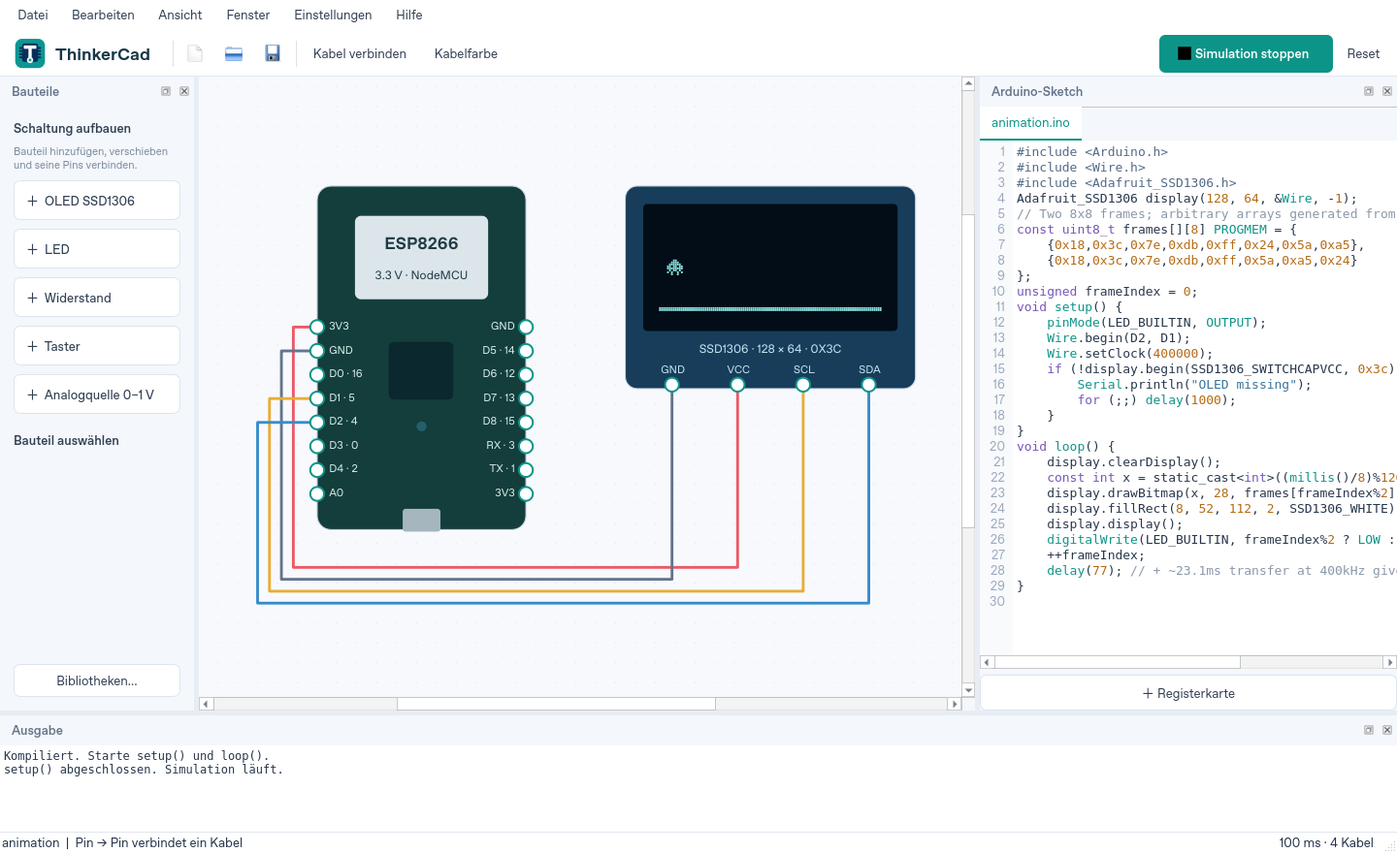
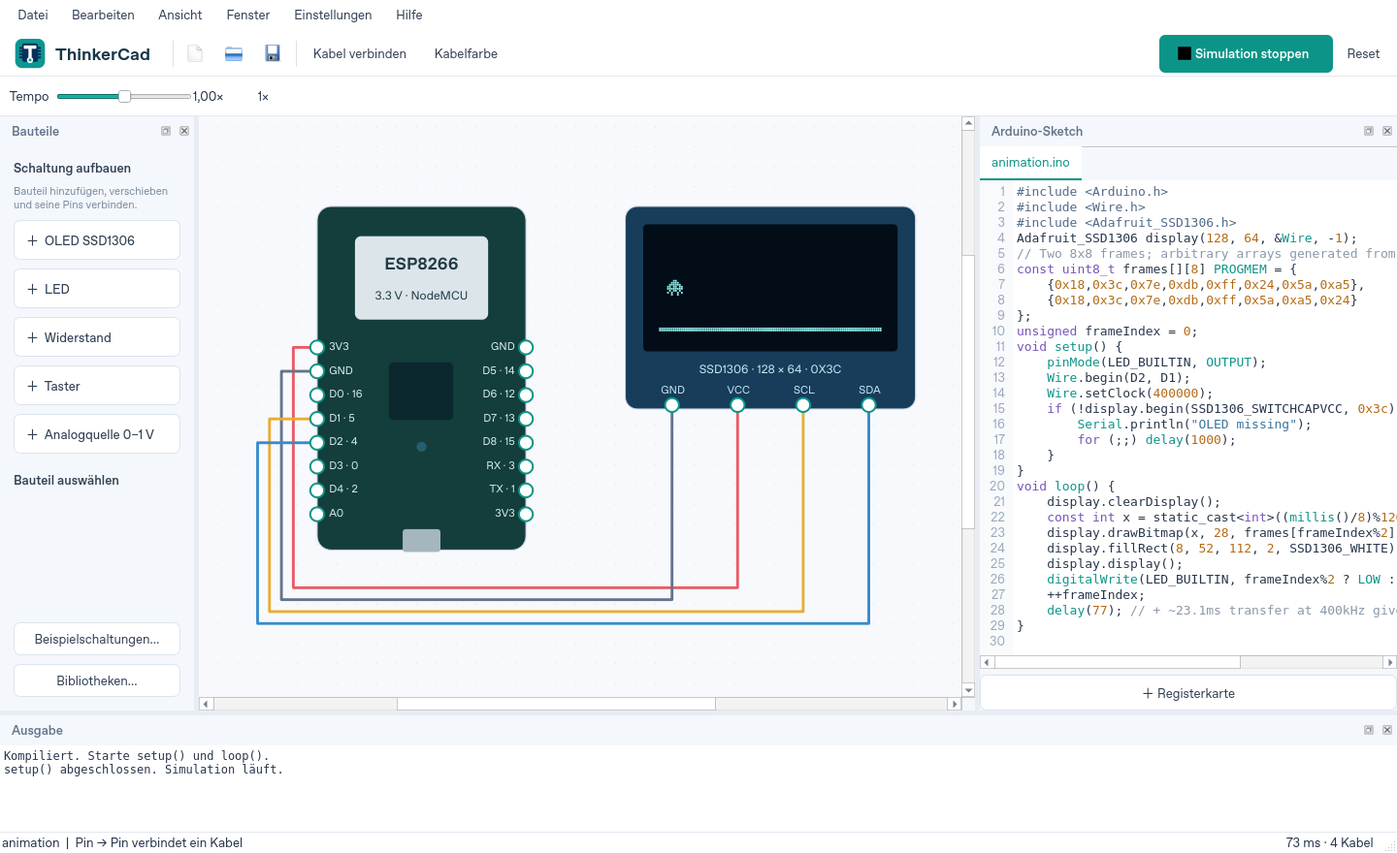
Release 0.3.0: live simulation speed, flash adapters and circuit examples

diff --git a/src/gui/mainwindow.cpp b/src/gui/mainwindow.cpp
@@ -1,5 +1,6 @@
 #include "mainwindow.hpp"
 #include "codeeditor.hpp"
+#include "examples.hpp"
 #include <QAction>
 #include <QApplication>
 #include <QCheckBox>
@@ -27,6 +28,7 @@
 #include <QScreen>
 #include <QSettings>
 #include <QSignalBlocker>
+#include <QSlider>
 #include <QStatusBar>
 #include <QStyle>
 #include <QTabWidget>
@@ -57,7 +59,7 @@ MainWindow::MainWindow(bool smokeTest):interpreter_(this),updater_(this),smokeTe
     auto* save=action(file,"Projekt speichern",QKeySequence::Save,[this]{saveProject();});save->setIcon(style()->standardIcon(QStyle::SP_DialogSaveButton));bar->addAction(save);
     action(file,"Projekt speichern unter…",QKeySequence::SaveAs,[this]{const auto old=projectFile_;projectFile_.clear();if(!saveProject())projectFile_=old;});
     action(file,"Arduino-Sketch exportieren…",{},[this]{exportSketch();});file->addSeparator();
-    action(file,"Beispielschaltung laden",{},[this]{if(maybeSave())loadDemo();});
+    action(file,"Beispielschaltungen…",{},[this]{examplesDialog();});
     action(file,"Beenden",QKeySequence::Quit,[this]{close();});
     auto* edit=menuBar()->addMenu("Bearbeiten");undo_=canvas_->history()->createUndoAction(canvas_,"Rückgängig");redo_=canvas_->history()->createRedoAction(canvas_,"Wiederholen");undo_->setShortcut(QKeySequence::Undo);redo_->setShortcut(QKeySequence::Redo);undo_->setShortcutContext(Qt::WidgetWithChildrenShortcut);redo_->setShortcutContext(Qt::WidgetWithChildrenShortcut);canvas_->addAction(undo_);canvas_->addAction(redo_);edit->addAction(undo_);edit->addAction(redo_);
     action(edit,"Ausgewählte Bauteile / Kabel löschen",{},[this]{canvas_->removeSelected();});
@@ -66,6 +68,11 @@ MainWindow::MainWindow(bool smokeTest):interpreter_(this),updater_(this),smokeTe
     auto* space=new QWidget;space->setSizePolicy(QSizePolicy::Expanding,QSizePolicy::Preferred);bar->addWidget(space);
     run_=bar->addAction(style()->standardIcon(QStyle::SP_MediaPlay),"Simulation starten");run_->setShortcut(Qt::Key_F5);run_->setObjectName("runSimulation");connect(run_,&QAction::triggered,this,[this]{if(interpreter_.active())interpreter_.stop();else startSimulation();});if(auto* button=qobject_cast<QToolButton*>(bar->widgetForAction(run_))){button->setObjectName("runButton");button->setToolButtonStyle(Qt::ToolButtonTextBesideIcon);}
     auto* reset=bar->addAction("Reset");connect(reset,&QAction::triggered,this,[this]{interpreter_.stop();simulator_.reset();board_.reset();for(auto& [id,display]:displays_){(void)id;display.reset();}updateCircuit();});
+    addToolBarBreak();auto* speedBar=addToolBar("Simulationstempo");speedBar->setObjectName("speedBar");speedBar->setMovable(false);
+    speedBar->addWidget(new QLabel("  Tempo  "));auto* speed=new QSlider(Qt::Horizontal);speed->setObjectName("simulationSpeed");speed->setRange(0,80);speed->setValue(40);speed->setFixedWidth(140);speed->setAccessibleName("Simulationsgeschwindigkeit");speed->setToolTip("0,1× bis 10× · während der Simulation einstellbar");speedBar->addWidget(speed);
+    auto* speedLabel=new QLabel("1,00×");speedLabel->setObjectName("simulationSpeedLabel");speedLabel->setMinimumWidth(52);speedBar->addWidget(speedLabel);auto* normalSpeed=speedBar->addAction("1×");normalSpeed->setToolTip("Normales Simulationstempo wiederherstellen");connect(normalSpeed,&QAction::triggered,speed,[speed]{speed->setValue(40);});
+    connect(speed,&QSlider::valueChanged,this,[this,speedLabel](int value){interpreter_.setSimulationSpeed(std::pow(10.0,(value-40)/40.0));speedLabel->setText(QString::number(interpreter_.simulationSpeed(),'f',2).replace('.',',')+"×");});
+
     auto* partsDock=new QDockWidget("Bauteile",this);partsDock->setObjectName("partsDock");auto* panel=new QWidget;auto* panelLayout=new QVBoxLayout(panel);panelLayout->setContentsMargins(14,14,14,14);panelLayout->setSpacing(9);
     auto* intro=new QLabel("Schaltung aufbauen");intro->setObjectName("sectionTitle");panelLayout->addWidget(intro);auto* hint=new QLabel("Bauteil hinzufügen, verschieben und seine Pins verbinden.");hint->setWordWrap(true);hint->setObjectName("muted");panelLayout->addWidget(hint);
     for(const auto kind:{PartKind::Oled,PartKind::Led,PartKind::Resistor,PartKind::Button,PartKind::AnalogSource}){auto* button=new QPushButton("＋  "+title(kind));button->setObjectName("componentCard");button->setProperty("kind",static_cast<int>(kind));panelLayout->addWidget(button);connect(button,&QPushButton::clicked,this,[this,kind]{canvas_->addPart(kind);});}
@@ -73,7 +80,7 @@ MainWindow::MainWindow(bool smokeTest):interpreter_(this),updater_(this),smokeTe
     propertyValue_=new QDoubleSpinBox;propertyValue_->setObjectName("componentValue");propertyValue_->setMaximum(1e6);propertyValue_->hide();panelLayout->addWidget(propertyValue_);
     propertyAddress_=new QComboBox;propertyAddress_->addItem("I²C-Adresse 0x3C",60);propertyAddress_->addItem("I²C-Adresse 0x3D",61);propertyAddress_->hide();panelLayout->addWidget(propertyAddress_);
     propertyPressed_=new QCheckBox("Taster gedrückt");propertyPressed_->hide();panelLayout->addWidget(propertyPressed_);
-    panelLayout->addStretch();auto* libs=new QPushButton("Bibliotheken…");panelLayout->addWidget(libs);connect(libs,&QPushButton::clicked,this,&MainWindow::libraries);partsDock->setWidget(panel);partsDock->setMinimumWidth(160);addDockWidget(Qt::LeftDockWidgetArea,partsDock);
+    panelLayout->addStretch();auto* examples=new QPushButton("Beispielschaltungen…");panelLayout->addWidget(examples);connect(examples,&QPushButton::clicked,this,&MainWindow::examplesDialog);auto* libs=new QPushButton("Bibliotheken…");panelLayout->addWidget(libs);connect(libs,&QPushButton::clicked,this,&MainWindow::libraries);partsDock->setWidget(panel);partsDock->setMinimumWidth(160);addDockWidget(Qt::LeftDockWidgetArea,partsDock);
     auto* codeDock=new QDockWidget("Arduino-Sketch",this);codeDock->setObjectName("codeDock");auto* codePanel=new QWidget;auto* codeLayout=new QVBoxLayout(codePanel);codeLayout->setContentsMargins(0,0,0,0);codeTabs_=new QTabWidget;codeTabs_->setObjectName("codeTabs");codeTabs_->setDocumentMode(true);codeTabs_->setUsesScrollButtons(true);codeLayout->addWidget(codeTabs_);auto* newTab=new QPushButton("＋ Registerkarte");codeLayout->addWidget(newTab);connect(newTab,&QPushButton::clicked,this,[this]{const auto name=QInputDialog::getText(this,"Neue Registerkarte","Dateiname (.ino, .h oder .cpp)");if(name.isEmpty())return;if(!ProjectIO::validFileName(name)||sketch_.files.contains(name)){appendLog("Dateiname ist ungültig oder bereits vorhanden.");return;}auto p=currentSketch();p.order<<name;p.files[name]="";setSketch(p);codeTabs_->setCurrentIndex(codeTabs_->count()-1);static_cast<CodeEditor*>(codeTabs_->currentWidget())->document()->setModified(true);});codeDock->setWidget(codePanel);codeDock->setMinimumWidth(260);addDockWidget(Qt::RightDockWidgetArea,codeDock);
     auto* consoleDock=new QDockWidget("Ausgabe",this);consoleDock->setObjectName("consoleDock");console_=new QPlainTextEdit;console_->setObjectName("consoleOutput");console_->setReadOnly(true);console_->setMaximumBlockCount(1000);console_->setFont(QFont("Consolas",9));console_->setMinimumHeight(70);consoleDock->setWidget(console_);addDockWidget(Qt::BottomDockWidgetArea,consoleDock);
     auto* view=menuBar()->addMenu("Ansicht");view->addAction(partsDock->toggleViewAction());view->addAction(codeDock->toggleViewAction());view->addAction(consoleDock->toggleViewAction());view->addSeparator();action(view,"Schaltung einpassen",QKeySequence(Qt::CTRL|Qt::Key_0),[this]{canvas_->fitCircuit();});action(view,"Vergrößern",QKeySequence::ZoomIn,[this]{canvas_->zoom(1.2);});action(view,"Verkleinern",QKeySequence::ZoomOut,[this]{canvas_->zoom(1/1.2);});
@@ -101,7 +108,11 @@ bool MainWindow::dirty()const{if(!canvas_->history()->isClean())return true;for(
 void MainWindow::refreshTitle(){const auto name=projectFile_.isEmpty()?sketch_.name:QFileInfo(projectFile_).completeBaseName();setWindowTitle(name+(dirty()?" *":"")+" — ThinkerCad " THINKERCAD_VERSION);projectLabel_->setText(name+(dirty()?" · ungespeichert":"")+"  |  Pin → Pin verbindet ein Kabel");}
 void MainWindow::appendLog(const QString& text){console_->appendPlainText(text);if(smokeTest_)std::cerr<<text.toStdString()<<'\n';}
 void MainWindow::newProject(){interpreter_.stop();circuit_=CircuitDocument{};canvas_->rebuild();canvas_->resetHistory();board_.reset();simulator_.reset();displays_.clear();displayBindings_.clear();projectFile_.clear();setSketch(blink());updateCircuit();canvas_->fitCircuit();}
-void MainWindow::loadDemo(){newProject();const auto oled=circuit_.addPart(PartKind::Oled,390,80);circuit_.connect({"board","3V3"},{oled,"VCC"},"#ec5967");circuit_.connect({"board","GND"},{oled,"GND"},"#64748b");circuit_.connect({"board","GPIO5"},{oled,"SCL"},"#e9ad33");circuit_.connect({"board","GPIO4"},{oled,"SDA"},"#378bcb");auto p=blink();p.name="animation";p.order={"animation.ino"};QFile example(QCoreApplication::applicationDirPath()+"/examples/animation.ino");if(example.open(QIODevice::ReadOnly))p.files={{"animation.ino",QString::fromUtf8(example.readAll())}};else p.files={{"animation.ino",p.files.value("sketch.ino")}};setSketch(p);canvas_->rebuild();canvas_->resetHistory();updateCircuit();canvas_->fitCircuit();}
+void MainWindow::loadDemo(){loadExample("animation");}
+bool MainWindow::loadExample(const QString& id){try{auto example=ExampleCatalog::create(id);newProject();circuit_=std::move(example.circuit);canvas_->rebuild();canvas_->resetHistory();setSketch(example.sketch);updateCircuit();canvas_->fitCircuit();return true;}catch(const std::exception& error){appendLog(QString::fromUtf8(error.what()));return false;}}
+void MainWindow::examplesDialog(){
+    QDialog dialog(this);dialog.setWindowTitle("Beispielschaltungen");dialog.resize(560,420);QVBoxLayout layout(&dialog);QLabel intro("Fertige Schaltung mit passendem Arduino-Sketch öffnen");intro.setWordWrap(true);layout.addWidget(&intro);QListWidget list;list.setObjectName("exampleList");const auto entries=ExampleCatalog::entries();for(const auto& example:entries)list.addItem(example.title);layout.addWidget(&list);QLabel description;description.setWordWrap(true);description.setMinimumHeight(64);layout.addWidget(&description);connect(&list,&QListWidget::currentRowChanged,&description,[entries,&description](int row){description.setText(row>=0&&row<entries.size()?entries.at(row).description:QString{});});list.setCurrentRow(0);QDialogButtonBox buttons(QDialogButtonBox::Open|QDialogButtonBox::Cancel);layout.addWidget(&buttons);connect(&buttons,&QDialogButtonBox::accepted,&dialog,&QDialog::accept);connect(&buttons,&QDialogButtonBox::rejected,&dialog,&QDialog::reject);connect(&list,&QListWidget::itemActivated,&dialog,[&]{dialog.accept();});if(dialog.exec()==QDialog::Accepted&&maybeSave())loadExample(entries.at(list.currentRow()).id);
+}
 bool MainWindow::openPath(const QString& path){try{if(QFileInfo(path).suffix().toLower()=="thinkercad"){auto p=ProjectIO::load(path);interpreter_.stop();circuit_=std::move(p.circuit);canvas_->rebuild();canvas_->resetHistory();board_.reset();simulator_.reset();displays_.clear();displayBindings_.clear();setSketch(p.sketch);projectFile_=path;}else{auto p=SketchProject::openIno(path);interpreter_.stop();setSketch(p);projectFile_.clear();}for(auto* dock:findChildren<QDockWidget*>())if(dock->objectName()=="codeDock")dock->show();updateCircuit();refreshTitle();canvas_->fitCircuit();appendLog("Geöffnet: "+QFileInfo(path).fileName());return true;}catch(const std::exception& e){appendLog(QString::fromUtf8(e.what()));return false;}}
 void MainWindow::openDialog(){if(!maybeSave())return;const auto path=QFileDialog::getOpenFileName(this,"Projekt oder Arduino-Sketch öffnen",{},"ThinkerCad / Arduino (*.thinkercad *.ino);;ThinkerCad (*.thinkercad);;Arduino (*.ino)");if(!path.isEmpty())openPath(path);}
 bool MainWindow::saveProjectTo(const QString& path){try{ProjectIO::save(path,{circuit_,currentSketch()});projectFile_=path;canvas_->history()->setClean();for(int i=0;i<codeTabs_->count();++i)static_cast<CodeEditor*>(codeTabs_->widget(i))->document()->setModified(false);refreshTitle();return true;}catch(const std::exception& e){appendLog(QString::fromUtf8(e.what()));return false;}}

diff --git a/tests/desktop_tests.cpp b/tests/desktop_tests.cpp
@@ -1,5 +1,8 @@
 #include "mainwindow.hpp"
 #include "codeeditor.hpp"
+#include "examples.hpp"
+#include <QSlider>
+#include <QLabel>
 #include <QApplication>
 #include <QAction>
 #include <QDir>
@@ -40,7 +43,10 @@ private slots:
     void wiredButtonChangesLed(){QTemporaryDir dir;const auto path=dir.filePath("button.ino");QVERIFY(write(path,"void setup(){pinMode(D6,INPUT_PULLUP);pinMode(D5,OUTPUT);}\nvoid loop(){digitalWrite(D5,digitalRead(D6)==LOW?HIGH:LOW);delay(40);}\n"));MainWindow window;window.show();QVERIFY(window.openPath(path));std::string led,resistor,button;window.canvas()->mutate("Test circuit",[&](auto& doc){led=doc.addPart(PartKind::Led,430,150);resistor=doc.addPart(PartKind::Resistor,270,150);button=doc.addPart(PartKind::Button,270,300);doc.connect({"board","GPIO14"},{resistor,"1"});doc.connect({resistor,"2"},{led,"A"});doc.connect({led,"K"},{"board","GND"});doc.connect({button,"1"},{"board","GPIO12"});doc.connect({button,"2"},{"board","GND"});});window.startSimulation();auto* output=window.findChild<QPlainTextEdit*>("consoleOutput");QTRY_VERIFY_WITH_TIMEOUT(output->toPlainText().contains("setup() abgeschlossen"),15000);QTRY_VERIFY(window.circuitState().ledCurrent.at(led)<1e-6);window.canvas()->selectPart(button);auto* pressed=window.findChild<QCheckBox*>();QVERIFY(pressed&&pressed->isVisible());QTest::mouseClick(pressed,Qt::LeftButton);QTRY_VERIFY_WITH_TIMEOUT(window.circuitState().ledCurrent.at(led)>0.005,3000);QTest::mouseClick(pressed,Qt::LeftButton);QTRY_VERIFY_WITH_TIMEOUT(window.circuitState().ledCurrent.at(led)<1e-6,3000);stop(window);}
     void closeDuringSimulation(){MainWindow window;window.loadDemo();window.show();window.startSimulation();QTRY_VERIFY_WITH_TIMEOUT(window.circuitState().level({"board","GPIO2"})==Level::High,15000);QElapsedTimer timer;timer.start();QVERIFY(window.close());QVERIFY(!window.simulationActive());QVERIFY(!window.isVisible());QVERIFY(timer.elapsed()<2500);}
     void disconnectedOledFailsBegin(){QTemporaryDir dir;const auto path=dir.filePath("oled.ino");QVERIFY(write(path,"#include <Adafruit_SSD1306.h>\nAdafruit_SSD1306 display(128,64,&Wire,-1);\nvoid setup(){Wire.begin(D2,D1);if(!display.begin(SSD1306_SWITCHCAPVCC,0x3c))Serial.println(\"missing OLED\");}\nvoid loop(){delay(30);}\n"));MainWindow window;window.show();QVERIFY(window.openPath(path));window.startSimulation();auto* console=window.findChild<QPlainTextEdit*>("consoleOutput");QTRY_VERIFY_WITH_TIMEOUT(console->toPlainText().contains("missing OLED"),15000);QVERIFY(console->toPlainText().contains("OLED nicht erreichbar"));stop(window);}
-    void circuitProjectRoundTrip(){QTemporaryDir dir;SavedProject p;p.sketch.name="Wiring";p.sketch.order={"Wiring.ino"};p.sketch.files["Wiring.ino"]="void setup(){} void loop(){delay(20);}";const auto resistor=p.circuit.addPart(PartKind::Resistor,310,170);p.circuit.part(resistor).value=470;p.circuit.connect({"board","GPIO14"},{resistor,"1"},"#ec5967");const auto path=dir.filePath("Wiring.thinkercad");ProjectIO::save(path,p);const auto loaded=ProjectIO::load(path);QCOMPARE(loaded.circuit.parts().size(),p.circuit.parts().size());QCOMPARE(loaded.circuit.part(resistor).x,310.0);QCOMPARE(loaded.circuit.part(resistor).value,470.0);QVERIFY(loaded.circuit.connected({"board","GPIO14"},{resistor,"1"}));QCOMPARE(QString::fromStdString(loaded.circuit.wires().front().color),QString("#ec5967"));QCOMPARE(loaded.sketch.files,p.sketch.files);}
+    void circuitProjectRoundTrip(){QTemporaryDir dir;SavedProject p;p.sketch.name="Wiring";p.sketch.order={"Wiring.ino"};p.sketch.files["Wiring.ino"]="void setup(){} void loop(){delay(20);}";const auto resistor=p.circuit.addPart(PartKind::Resistor,310,170);p.circuit.part(resistor).value=470;p.circuit.part(resistor).color="#22c55e";p.circuit.connect({"board","GPIO14"},{resistor,"1"},"#ec5967");const auto path=dir.filePath("Wiring.thinkercad");ProjectIO::save(path,p);const auto loaded=ProjectIO::load(path);QCOMPARE(loaded.circuit.parts().size(),p.circuit.parts().size());QCOMPARE(loaded.circuit.part(resistor).x,310.0);QCOMPARE(loaded.circuit.part(resistor).value,470.0);QCOMPARE(QString::fromStdString(loaded.circuit.part(resistor).color),QString("#22c55e"));QVERIFY(loaded.circuit.connected({"board","GPIO14"},{resistor,"1"}));QCOMPARE(QString::fromStdString(loaded.circuit.wires().front().color),QString("#ec5967"));QCOMPARE(loaded.sketch.files,p.sketch.files);}
+    void simulationSpeedSlider(){MainWindow window;window.show();QTest::qWait(50);auto* speed=window.findChild<QSlider*>("simulationSpeed");auto* label=window.findChild<QLabel*>("simulationSpeedLabel");QVERIFY(speed&&label);QCOMPARE(speed->value(),40);speed->setFocus();QTest::keyClick(speed,Qt::Key_Home);QCOMPARE(label->text(),QString("0,10×"));QTest::keyClick(speed,Qt::Key_End);QCOMPARE(label->text(),QString("10,00×"));speed->setValue(40);QCOMPARE(label->text(),QString("1,00×"));}
+    void examplesCompileAndSimulate_data(){QTest::addColumn<QString>("id");for(const auto& example:ExampleCatalog::entries())QTest::newRow(example.id.toUtf8().constData())<<example.id;}
+    void examplesCompileAndSimulate(){QFETCH(QString,id);MainWindow window;window.show();QVERIFY(window.loadExample(id));QVERIFY(window.circuitState().errors.empty());QVERIFY(!window.circuit().wires().empty());window.startSimulation();auto* console=window.findChild<QPlainTextEdit*>("consoleOutput");QTRY_VERIFY_WITH_TIMEOUT(console->toPlainText().contains("setup() abgeschlossen"),15000);QVERIFY(window.simulationActive());if(id=="animation"||id=="two_oleds"){QTest::qWait(250);QVERIFY(window.simulationActive());QVERIFY(!console->toPlainText().contains("OLED nicht erreichbar"));}else if(id!="button_led"){QTRY_VERIFY(std::any_of(window.circuitState().ledCurrent.begin(),window.circuitState().ledCurrent.end(),[](const auto& pair){return pair.second>0.001;}));}stop(window);}
     void rejectUnsafeProjectPaths(){QTemporaryDir dir;SavedProject p;p.sketch.order={"sketch.ino"};p.sketch.files["sketch.ino"]="void setup(){} void loop(){}";const auto path=dir.filePath("safe.thinkercad");ProjectIO::save(path,p);QFile file(path);QVERIFY(file.open(QIODevice::ReadOnly));auto json=QJsonDocument::fromJson(file.readAll()).object();file.close();auto files=json["files"].toArray();files.append(QJsonObject{{"name","../escaped.cpp"},{"text",""}});json["files"]=files;QVERIFY(write(path,QString::fromUtf8(QJsonDocument(json).toJson())));QVERIFY_EXCEPTION_THROWN(ProjectIO::load(path),std::runtime_error);QVERIFY(!QFileInfo::exists(dir.filePath("../escaped.cpp")));}
 };
 QTEST_MAIN(DesktopTests)

diff --git a/src/gui/main.cpp b/src/gui/main.cpp
@@ -20,7 +20,7 @@ int main(int argc,char** argv){
     app.setStyle(QStyleFactory::create("Fusion"));
 #endif
     QPalette palette;palette.setColor(QPalette::Window,QColor("#f4f7fb"));palette.setColor(QPalette::WindowText,QColor("#27364b"));palette.setColor(QPalette::Base,Qt::white);palette.setColor(QPalette::Text,QColor("#27364b"));palette.setColor(QPalette::Button,QColor("#ffffff"));palette.setColor(QPalette::ButtonText,QColor("#27364b"));palette.setColor(QPalette::Highlight,QColor("#0d9488"));palette.setColor(QPalette::HighlightedText,Qt::white);app.setPalette(palette);
-    app.setStyleSheet("QMainWindow {background:#f4f7fb;} QMenuBar {background:#ffffff;padding:3px;color:#334155;} QMenuBar::item {padding:5px 9px;} QToolBar#commandBar {background:white;spacing:5px;padding:9px;border-bottom:1px solid #e2e8f0;} QToolButton {padding:7px 9px;border-radius:6px;color:#334155;} QToolButton:hover {background:#edf4f5;} QToolButton:checked {background:#e0f4f1;color:#0d9488;} QToolButton#runButton {background:#0d9488;color:white;padding:9px 15px;font-weight:600;} QToolButton#runButton:hover {background:#0f766e;} QLabel#brandName {font-size:18px;font-weight:700;color:#173747;} QLabel#sectionTitle {font-weight:600;color:#334155;} QLabel#muted {color:#7b8ba0;font-size:11px;} QDockWidget {color:#64748b;font-weight:600;} QDockWidget::title {background:#f4f7fb;padding:8px;} QMainWindow::separator {width:5px;height:5px;background:#e8edf4;} QPushButton {background:white;border:1px solid #dce4ee;border-radius:7px;padding:8px 10px;color:#334155;} QPushButton:hover {background:#edf8f6;border-color:#b3d8d2;} QPushButton#componentCard {text-align:left;padding:10px 12px;font-weight:500;} QPlainTextEdit {background:white;border:0;color:#27364b;selection-background-color:#cdebe7;selection-color:#173747;} QTabWidget::pane {border:0;background:white;} QTabBar::tab {background:#f1f5f9;padding:9px 12px;color:#718096;border-bottom:2px solid transparent;} QTabBar::tab:selected {background:white;color:#0d9488;border-bottom:2px solid #0d9488;} QDoubleSpinBox,QComboBox {background:white;border:1px solid #dce4ee;border-radius:5px;padding:7px;} QStatusBar {background:#ffffff;border-top:1px solid #e2e8f0;color:#748398;} QStatusBar::item {border:0;} ");
+    app.setStyleSheet("QMainWindow {background:#f4f7fb;} QMenuBar {background:#ffffff;padding:3px;color:#334155;} QMenuBar::item {padding:5px 9px;} QToolBar#speedBar {background:white;padding:4px;border-bottom:1px solid #e2e8f0;} QToolBar#commandBar {background:white;spacing:5px;padding:9px;border-bottom:1px solid #e2e8f0;} QToolButton {padding:7px 9px;border-radius:6px;color:#334155;} QToolButton:hover {background:#edf4f5;} QToolButton:checked {background:#e0f4f1;color:#0d9488;} QToolButton#runButton {background:#0d9488;color:white;padding:9px 15px;font-weight:600;} QToolButton#runButton:hover {background:#0f766e;} QLabel#brandName {font-size:18px;font-weight:700;color:#173747;} QLabel#sectionTitle {font-weight:600;color:#334155;} QLabel#muted {color:#7b8ba0;font-size:11px;} QDockWidget {color:#64748b;font-weight:600;} QDockWidget::title {background:#f4f7fb;padding:8px;} QMainWindow::separator {width:5px;height:5px;background:#e8edf4;} QPushButton {background:white;border:1px solid #dce4ee;border-radius:7px;padding:8px 10px;color:#334155;} QPushButton:hover {background:#edf8f6;border-color:#b3d8d2;} QPushButton#componentCard {text-align:left;padding:10px 12px;font-weight:500;} QPlainTextEdit {background:white;border:0;color:#27364b;selection-background-color:#cdebe7;selection-color:#173747;} QTabWidget::pane {border:0;background:white;} QTabBar::tab {background:#f1f5f9;padding:9px 12px;color:#718096;border-bottom:2px solid transparent;} QTabBar::tab:selected {background:white;color:#0d9488;border-bottom:2px solid #0d9488;} QDoubleSpinBox,QComboBox {background:white;border:1px solid #dce4ee;border-radius:5px;padding:7px;} QStatusBar {background:#ffffff;border-top:1px solid #e2e8f0;color:#748398;} QStatusBar::item {border:0;} ");
     MainWindow window(app.arguments().contains("--smoke-test"));window.show();
     if(!app.arguments().contains("--smoke-test"))for(const auto& argument:app.arguments().mid(1))if(QFileInfo(argument).isFile())QTimer::singleShot(0,&window,[&window,argument]{window.openPath(argument);});
     const int result=app.exec();

diff --git a/src/gui/projectio.cpp b/src/gui/projectio.cpp
@@ -59,7 +59,7 @@ QString SketchProject::combinedSource()const{QString combined="#include <Arduino
 QMap<QString,QString> SketchProject::auxiliaryFiles()const{auto aux=files;for(auto it=aux.begin();it!=aux.end();)if(it.key().endsWith(".ino",Qt::CaseInsensitive))it=aux.erase(it);else++it;return aux;}
 void ProjectIO::save(const QString& path,const SavedProject& p){
     p.circuit.validate();QJsonArray parts,wires,files;
-    for(const auto& part:p.circuit.parts())parts.append(QJsonObject{{"id",QString::fromStdString(part.id)},{"kind",static_cast<int>(part.kind)},{"x",part.x},{"y",part.y},{"value",part.value}});
+    for(const auto& part:p.circuit.parts())parts.append(QJsonObject{{"id",QString::fromStdString(part.id)},{"kind",static_cast<int>(part.kind)},{"x",part.x},{"y",part.y},{"value",part.value},{"color",QString::fromStdString(part.color)}});
     for(const auto& wire:p.circuit.wires())wires.append(QJsonObject{{"a",endpoint(wire.a)},{"b",endpoint(wire.b)},{"color",QString::fromStdString(wire.color)}});
     for(const auto& name:p.sketch.order){if(!validFileName(name))throw std::runtime_error("Invalid project file name");files.append(QJsonObject{{"name",name},{"text",p.sketch.files.value(name)}});}
     const auto data=QJsonDocument(QJsonObject{{"format","ThinkerCad"},{"version",1},{"name",p.sketch.name},{"parts",parts},{"wires",wires},{"files",files}}).toJson();
@@ -68,7 +68,7 @@ void ProjectIO::save(const QString& path,const SavedProject& p){
 SavedProject ProjectIO::load(const QString& path){
     QFile file(path);if(!file.open(QIODevice::ReadOnly)||file.size()>3*1024*1024)throw std::runtime_error("Projektdatei ist nicht lesbar oder zu groß.");QJsonParseError error;const auto json=QJsonDocument::fromJson(file.readAll(),&error);const auto o=json.object();if(error.error!=QJsonParseError::NoError||o["format"].toString()!="ThinkerCad"||o["version"].toInt()!=1||!o["parts"].isArray()||!o["wires"].isArray()||!o["files"].isArray())throw std::runtime_error("Ungültiges ThinkerCad-Projektformat.");
     SavedProject p;p.sketch.name=o["name"].toString("sketch");bool board=false;
-    for(const auto& entry:o["parts"].toArray()){auto v=entry.toObject();if(!v["x"].isDouble()||!v["y"].isDouble()||!v["value"].isDouble()||!v["kind"].isDouble())throw std::runtime_error("Invalid component properties");thinkercad::CircuitPart part{v["id"].toString().toStdString(),static_cast<thinkercad::PartKind>(v["kind"].toInt(-1)),v["x"].toDouble(),v["y"].toDouble(),v["value"].toDouble(),false};if(part.id=="board"){if(board||part.kind!=thinkercad::PartKind::Esp8266)throw std::runtime_error("Invalid primary board");p.circuit.part("board")=part;board=true;}else p.circuit.insertPart(part);}
+    for(const auto& entry:o["parts"].toArray()){auto v=entry.toObject();if(!v["x"].isDouble()||!v["y"].isDouble()||!v["value"].isDouble()||!v["kind"].isDouble())throw std::runtime_error("Invalid component properties");thinkercad::CircuitPart part{v["id"].toString().toStdString(),static_cast<thinkercad::PartKind>(v["kind"].toInt(-1)),v["x"].toDouble(),v["y"].toDouble(),v["value"].toDouble(),false,v["color"].toString("#fb586b").toStdString()};if(part.id=="board"){if(board||part.kind!=thinkercad::PartKind::Esp8266)throw std::runtime_error("Invalid primary board");p.circuit.part("board")=part;board=true;}else p.circuit.insertPart(part);}
     if(!board)throw std::runtime_error("ESP8266 fehlt im Projekt.");
     for(const auto& entry:o["wires"].toArray()){auto v=entry.toObject();p.circuit.connect(endpoint(v["a"].toObject()),endpoint(v["b"].toObject()),v["color"].toString("#0d9488").toStdString());}
     for(const auto& entry:o["files"].toArray()){auto v=entry.toObject();const auto name=v["name"].toString();if(!validFileName(name)||p.sketch.files.contains(name)||p.sketch.files.size()>=100||!v["text"].isString())throw std::runtime_error("Invalid sketch files");p.sketch.order<<name;p.sketch.files[name]=v["text"].toString();}

diff --git a/src/gui/examples.cpp b/src/gui/examples.cpp
@@ -1,0 +1,36 @@
+#include "examples.hpp"
+#include <QCoreApplication>
+#include <QFile>
+#include <stdexcept>
+#include <algorithm>
+using namespace thinkercad;
+QList<CircuitExample> ExampleCatalog::entries(){return {
+    {"animation","OLED-Animation","ESP8266 und SSD1306: zwei Bitmap-Frames aus PROGMEM mit realistischer I²C-Transferzeit."},
+    {"led_blink","LED blinken lassen","Externe LED an D5 mit 220-Ω-Vorwiderstand. Mit dem Temporegler die Blinkgeschwindigkeit vergleichen."},
+    {"button_led","Taster schaltet LED","Taster an D6 gegen GND, interner Pullup, LED an D5. Taster per Doppelklick oder Auswahl-Checkbox drücken."},
+    {"traffic_light","Ampelschaltung","Drei LEDs an D5/D6/D7 mit eigenen Vorwiderständen: Rot, Rot/Gelb, Grün, Gelb."},
+    {"led_chaser","Lauflicht","Vier LEDs an D1/D2/D5/D6 mit jeweils 220 Ω werden der Reihe nach eingeschaltet."},
+    {"analog_threshold","Analoger Schwellwert","0–1-V-Quelle an A0. Ab ADC-Wert 512 leuchtet die LED. Simulation stoppen, Quelle auswählen und Spannung verändern."},
+    {"two_oleds","Zwei OLEDs am I²C-Bus","Zwei Displays teilen D2/SDA und D1/SCL. Adressen 0x3C und 0x3D; Flash-Bitmaps bewegen sich gegenläufig."}
+};}
+SavedProject ExampleCatalog::create(const QString& id){
+    const auto entries=ExampleCatalog::entries();if(std::none_of(entries.begin(),entries.end(),[&](const auto& entry){return entry.id==id;}))throw std::invalid_argument("Unbekanntes Beispiel.");
+    QFile file(QCoreApplication::applicationDirPath()+"/examples/"+id+".ino");if(!file.open(QIODevice::ReadOnly))throw std::runtime_error("Beispieldatei fehlt. Installation überprüfen.");
+    SavedProject result;auto& doc=result.circuit;result.sketch.name=id;result.sketch.order={id+".ino"};result.sketch.files[id+".ino"]=QString::fromUtf8(file.readAll());
+    auto led=[&](const std::string& pin,double y,const std::string& color){
+        const auto resistor=doc.addPart(PartKind::Resistor,400,y),light=doc.addPart(PartKind::Led,650,y);doc.part(light).color=color;
+        doc.connect({"board",pin},{resistor,"1"},color);doc.connect({resistor,"2"},{light,"A"},color);doc.connect({light,"K"},{"board","GND"},"#64748b");
+    };
+    auto oled=[&](double x,double y,int address){const auto display=doc.addPart(PartKind::Oled,x,y);doc.part(display).value=address;
+        doc.connect({"board","3V3"},{display,"VCC"},"#ec5967");doc.connect({"board","GND"},{display,"GND"},"#64748b");doc.connect({"board","GPIO5"},{display,"SCL"},"#e9ad33");doc.connect({"board","GPIO4"},{display,"SDA"},"#378bcb");};
+    if(id=="animation")oled(390,80,60);
+    else if(id=="two_oleds"){oled(430,0,60);oled(800,0,61);}
+    else if(id=="traffic_light"){led("GPIO14",0,"#fb586b");led("GPIO12",140,"#e9ad33");led("GPIO13",280,"#22c55e");}
+    else if(id=="led_chaser"){led("GPIO5",0,"#fb586b");led("GPIO4",140,"#e9ad33");led("GPIO14",280,"#22c55e");led("GPIO12",420,"#378bcb");}
+    else {
+        led("GPIO14",80,"#fb586b");
+        if(id=="button_led"){const auto button=doc.addPart(PartKind::Button,430,270);doc.connect({"board","GPIO12"},{button,"1"},"#378bcb");doc.connect({button,"2"},{"board","GND"},"#64748b");}
+        if(id=="analog_threshold"){const auto source=doc.addPart(PartKind::AnalogSource,430,270);doc.part(source).value=0.75;doc.connect({source,"OUT"},{"board","A0"},"#378bcb");doc.connect({source,"GND"},{"board","GND"},"#64748b");}
+    }
+    doc.validate();return result;
+}

diff --git a/src/gui/circuitcanvas.cpp b/src/gui/circuitcanvas.cpp
@@ -73,7 +73,7 @@ public:
             p->setPen(QColor("#c3e6ef"));p->setFont(QFont("Segoe UI",9));p->drawText(QRectF(12,152,268,24),Qt::AlignCenter,QString("SSD1306 · 128 × 64 · 0x%1").arg(static_cast<int>(part.value),2,16,QChar('0')).toUpper());const QStringList pins{"GND","VCC","SCL","SDA"};p->setFont(QFont("Segoe UI",8));for(int i=0;i<4;++i)p->drawText(QRectF(27+i*66,176,42,18),Qt::AlignCenter,pins[i]);
         }else{
             p->drawRoundedRect(0,0,150,104,12,12);p->setPen(QColor("#334155"));p->setFont(QFont("Segoe UI",10,QFont::DemiBold));p->drawText(QRectF(8,8,134,22),Qt::AlignCenter,partName(kind));
-            if(kind==PartKind::Led){const auto current=state.ledCurrent.contains(id)?state.ledCurrent.at(id):0;p->setPen(Qt::NoPen);p->setBrush(current>1e-5?QColor("#fb586b"):QColor("#b6bfc9"));if(current>1e-5){p->setBrush(QColor(251,88,107,35));p->drawEllipse(QPointF(75,58),27,27);p->setBrush(QColor("#fb586b"));}p->drawEllipse(QPointF(75,58),17,17);p->setPen(QColor("#64748b"));p->setFont(QFont("Segoe UI",8));p->drawText(QRectF(8,81,134,18),Qt::AlignCenter,QString("%1 mA · A → K").arg(current*1000,0,'f',1));}
+            if(kind==PartKind::Led){const auto current=state.ledCurrent.contains(id)?state.ledCurrent.at(id):0;p->setPen(Qt::NoPen);p->setBrush(current>1e-5?QColor(QString::fromStdString(part.color)):QColor("#b6bfc9"));if(current>1e-5){auto glow=QColor(QString::fromStdString(part.color));glow.setAlpha(35);p->setBrush(glow);p->drawEllipse(QPointF(75,58),27,27);p->setBrush(QColor(QString::fromStdString(part.color)));}p->drawEllipse(QPointF(75,58),17,17);p->setPen(QColor("#64748b"));p->setFont(QFont("Segoe UI",8));p->drawText(QRectF(8,81,134,18),Qt::AlignCenter,QString("%1 mA · A → K").arg(current*1000,0,'f',1));}
             if(kind==PartKind::Resistor){p->setBrush(QColor("#e7c99b"));p->setPen(Qt::NoPen);p->drawRoundedRect(30,45,90,25,5,5);p->setBrush(QColor("#926a40"));for(int x:{48,61,83,102})p->drawRect(x,45,5,25);p->setPen(QColor("#64748b"));p->setFont(QFont("Segoe UI",8));p->drawText(QRectF(8,81,134,18),Qt::AlignCenter,QString("%1 Ω").arg(part.value));}
             if(kind==PartKind::Button){p->setBrush(part.pressed?QColor("#0d9488"):QColor("#e2e8f0"));p->drawRoundedRect(50,39,50,34,8,8);p->setPen(QColor("#64748b"));p->setFont(QFont("Segoe UI",8));p->drawText(QRectF(8,81,134,18),Qt::AlignCenter,part.pressed?"Gedrückt":"Doppelklick: drücken");}
             if(kind==PartKind::AnalogSource){p->setPen(QColor("#0d9488"));p->setFont(QFont("Segoe UI",17,QFont::DemiBold));p->drawText(QRectF(15,36,120,38),Qt::AlignCenter,QString("%1 V").arg(part.value,0,'f',2));p->setPen(QColor("#64748b"));p->setFont(QFont("Segoe UI",8));p->drawText(QRectF(8,81,134,18),Qt::AlignCenter,"OUT                   GND");}

diff --git a/src/gui/codeinterpreter.cpp b/src/gui/codeinterpreter.cpp
@@ -4,6 +4,8 @@
 #include <QFile>
 #include <QFileInfo>
 #include <QProcessEnvironment>
+#include <algorithm>
+#include <cmath>
 CodeInterpreter::CodeInterpreter(QObject* parent) : QObject(parent) {
     watchdog_.setSingleShot(true);
     connect(&watchdog_, &QTimer::timeout, this, [this] { emit log("Ausführung abgebrochen: Zeitlimit / fehlende Rückmeldung."); stop(); });
@@ -43,7 +45,7 @@ void CodeInterpreter::start(const QString& sketch,const QString& compiler,const 
     QFile file(temp_->filePath("sketch.ino"));
     if (!file.open(QIODevice::WriteOnly) || file.write(sketch.toUtf8()) < 0) {emit log("Sketch konnte nicht gespeichert werden."); return;} file.close();
     QString source=QDir::fromNativeSeparators(file.fileName());
-    QStringList args{"-std=c++20","-O0","-g","-pthread","-I"+sdk,"-DTHINKERCAD_SKETCH=\""+source+"\"",sdk+"/runner.cpp"};
+    QStringList args{"-std=c++20","-DTHINKERCAD_SIMULATION=1","-O0","-g","-pthread","-I"+sdk,"-DTHINKERCAD_SKETCH=\""+source+"\"",sdk+"/runner.cpp"};
     args << "-I"+temp_->path() << "-I"+temp_->filePath("src") << "-I"+temp_->filePath("include");
     int sources=0;
     for(auto it=projectFiles.begin();it!=projectFiles.end();++it) {
@@ -92,6 +94,9 @@ void CodeInterpreter::start(const QString& sketch,const QString& compiler,const 
     worker_.setProcessEnvironment(environment);
     compiler_.start(compiler,args);
 }
+void CodeInterpreter::setSimulationSpeed(double multiplier) {
+    if(std::isfinite(multiplier))speedPermille_=static_cast<int>(std::lround(std::clamp(multiplier,0.1,10.0)*1000));
+}
 void CodeInterpreter::answer(int value) {worker_.write(QByteArray::number(value)+'\n');}
 void CodeInterpreter::readProtocol() {
     if(!active_)return;
@@ -103,6 +108,6 @@ void CodeInterpreter::readProtocol() {
         const auto newline=pending_.indexOf('\n'); if(newline<0) break;
         if (++linesThisSecond_>5000 || newline>4096) {emit log("Sketch-Protokoll überlastet. delay() oder yield() verwenden.");stop();return;}
         auto line=pending_.left(newline).trimmed(); pending_.remove(0,newline+1);
-        emit protocol(line); if(!active_) break;
+        if(line=="SPEED")answer(speedPermille_);else emit protocol(line); if(!active_) break;
     }
 }

diff --git a/tests/interpreter_tests.cpp b/tests/interpreter_tests.cpp
@@ -8,7 +8,7 @@ int main(int argc,char** argv) {
     QCoreApplication app(argc,argv);QTemporaryDir library;
     const auto root=library.filePath("portable library/src");QDir().mkpath(root);
     auto write=[](const QString& path,const QByteArray& data){QFile f(path);return f.open(QIODevice::WriteOnly) && f.write(data)==data.size();};
-    if(!write(root+"/Counter.h","#pragma once\nint doubled(int value);\n") || !write(root+"/Counter.cpp","#include \"Counter.h\"\nint doubled(int v){return v*2;}\n"))return 1;
+    if(!write(root+"/Counter.h","#pragma once\nint doubled(int value);\n") || !write(root+"/Counter.cpp","#include \"Counter.h\"\n#ifndef THINKERCAD_SIMULATION\n#error Simulation define missing in library\n#endif\nint doubled(int v){return v*2;}\n"))return 1;
     CodeInterpreter runner;bool wrote=false,read=false,adc=false,done=false;
     QObject::connect(&runner,&CodeInterpreter::log,&app,[](const QString& line){std::cerr<<line.toStdString()<<'\n';});
     QObject::connect(&runner,&CodeInterpreter::protocol,&app,[&](const QByteArray& line){
@@ -23,7 +23,7 @@ int main(int argc,char** argv) {
     QObject::connect(&runner,&CodeInterpreter::activeChanged,&app,[&](bool active){if(!active&&!done){done=true;app.exit(1);}});
     QTimer::singleShot(20000,&app,[&]{if(!done){done=true;runner.stop();app.exit(1);}});
     QTimer::singleShot(0,&app,[&]{runner.start(
-        "#include <Arduino.h>\n#include <Counter.h>\nvoid setup(){pinMode(D5,OUTPUT);pinMode(D6,INPUT_PULLUP);digitalWrite(D5,doubled(21)==42?HIGH:LOW);}\n"
+        "#include <Arduino.h>\n#include <Counter.h>\n#include <avr/pgmspace.h>\n#ifndef THINKERCAD_SIMULATION\n#include <HardwareOnlyDependency.h>\n#endif\nconst uint8_t bitmap[] PROGMEM={42};\nvoid setup(){pinMode(D5,OUTPUT);pinMode(D6,INPUT_PULLUP);digitalWrite(D5,doubled(21)==pgm_read_byte(bitmap)?HIGH:LOW);}\n"
         "void loop(){if(digitalRead(D6)!=HIGH || analogRead(A0)!=512) std::abort();delay(10);}\n",
         "g++",QCoreApplication::applicationDirPath()+"/sdk",{library.filePath("portable library")});});
     return app.exec();

diff --git a/sdk/Arduino.h b/sdk/Arduino.h
@@ -9,8 +9,10 @@
 #include <stdexcept>
 #include <string>
 #include <thread>
-#define PROGMEM
-#define pgm_read_byte(p) (*reinterpret_cast<const unsigned char*>(p))
+#include "pgmspace.h"
+#ifndef F
+#define F(text) PSTR(text)
+#endif
 using byte = unsigned char;
 constexpr int LOW = 0, HIGH = 1, INPUT = 0, OUTPUT = 1, INPUT_PULLUP = 2;
 constexpr int D0=16, D1=5, D2=4, D3=0, D4=2, D5=14, D6=12, D7=13, D8=15, A0=17, LED_BUILTIN=2;
@@ -21,18 +23,21 @@ inline std::array<int,17> modes{};
 inline void validatePin(int pin) {
     if (pin < 0 || pin > 16 || (pin >= 6 && pin <= 11)) throw std::invalid_argument("Unavailable ESP8266 GPIO");
 }
+inline int request(const std::string& line);
 inline void advance(std::uint64_t us) {
     if (us > std::numeric_limits<std::uint64_t>::max() - clockUs) throw std::overflow_error("Clock overflow");
     do {
-        const auto step = std::min<std::uint64_t>(us, 50000);
-        std::this_thread::sleep_for(std::chrono::microseconds(step));
+        const int speed = request("SPEED"); // Speed multiplier in thousandths; refreshed while running.
+        if (speed < 100 || speed > 10000) throw std::runtime_error("Invalid simulation speed");
+        const auto step = std::min<std::uint64_t>(us, 50ull * speed);
+        std::this_thread::sleep_for(std::chrono::microseconds(step * 1000 / speed));
         clockUs += step; us -= step;
         std::cout << "TIME " << clockUs << std::endl;
     } while (us);
 }
 inline int request(const std::string& line) {
     std::cout << line << std::endl;
-    if(standalone){if(line.starts_with("OLED_BEGIN "))return 1;return 0;}
+    if(standalone){if(line=="SPEED")return 1000;if(line.starts_with("OLED_BEGIN "))return 1;return 0;}
     int answer = 0;
     if (!(std::cin >> answer)) throw std::runtime_error("Simulation host disconnected");
     return answer;

diff --git a/sdk/pgmspace.h b/sdk/pgmspace.h
@@ -1,0 +1,34 @@
+#pragma once
+// Host adapter: ESP flash storage becomes ordinary immutable process memory.
+// Firmware builds use the board's real pgmspace.h; sketch source stays unchanged.
+#include <cstdint>
+#include <cstring>
+#ifndef PROGMEM
+#define PROGMEM
+#endif
+#ifndef ICACHE_RODATA_ATTR
+#define ICACHE_RODATA_ATTR
+#endif
+#ifndef PSTR
+#define PSTR(text) (text)
+#endif
+using PGM_P = const char*;
+using PGM_VOID_P = const void*;
+namespace thinker {
+template<class T> inline T readProgramMemory(const void* address) {
+    T value;std::memcpy(&value,address,sizeof value);return value;
+}
+}
+inline std::uint8_t pgm_read_byte(const void* p){return thinker::readProgramMemory<std::uint8_t>(p);}
+inline std::uint16_t pgm_read_word(const void* p){return thinker::readProgramMemory<std::uint16_t>(p);}
+inline std::uint32_t pgm_read_dword(const void* p){return thinker::readProgramMemory<std::uint32_t>(p);}
+inline float pgm_read_float(const void* p){return thinker::readProgramMemory<float>(p);}
+inline const void* pgm_read_ptr(const void* p){return thinker::readProgramMemory<const void*>(p);}
+inline std::uint8_t pgm_read_byte_near(const void* p){return pgm_read_byte(p);}
+inline std::uint16_t pgm_read_word_near(const void* p){return pgm_read_word(p);}
+inline std::uint32_t pgm_read_dword_near(const void* p){return pgm_read_dword(p);}
+inline void* memcpy_P(void* dest,const void* source,std::size_t count){return std::memcpy(dest,source,count);}
+inline int memcmp_P(const void* a,const void* b,std::size_t count){return std::memcmp(a,b,count);}
+inline std::size_t strlen_P(PGM_P text){return std::strlen(text);}
+inline char* strcpy_P(char* dest,PGM_P text){return std::strcpy(dest,text);}
+inline char* strncpy_P(char* dest,PGM_P text,std::size_t count){return std::strncpy(dest,text,count);}

diff --git a/tests/speed_tests.cpp b/tests/speed_tests.cpp
@@ -1,0 +1,24 @@
+#include "codeinterpreter.hpp"
+#include <QCoreApplication>
+#include <QElapsedTimer>
+#include <QTimer>
+#include <iostream>
+int main(int argc,char** argv){
+    QCoreApplication app(argc,argv);CodeInterpreter runner;QElapsedTimer elapsed;
+    bool done=false,switched=false; qint64 slowMs=0;
+    runner.setSimulationSpeed(0.1);
+    QObject::connect(&runner,&CodeInterpreter::log,&app,[](const QString& line){std::cerr<<line.toStdString()<<'\n';});
+    QObject::connect(&runner,&CodeInterpreter::activeChanged,&app,[&](bool active){if(!active&&!done){done=true;app.exit(1);}});
+    QObject::connect(&runner,&CodeInterpreter::protocol,&app,[&](const QByteArray& line){
+        if(done)return;
+        if(line=="READY")elapsed.start();
+        if(line=="TIME 200000"&&!switched){slowMs=elapsed.elapsed();switched=true;runner.setSimulationSpeed(10);elapsed.restart();}
+        if(line=="TIME 1000000"){
+            const auto fastMs=elapsed.elapsed();const bool ok=switched&&slowMs>=1400&&fastMs<slowMs/2&&runner.simulationSpeed()==10;
+            done=true;runner.stop();std::cout<<"Live pacing: first 200ms virtual at 0.1x took "<<slowMs<<"ms; next 800ms at 10x took "<<fastMs<<"ms\n";app.exit(ok?0:1);
+        }
+    });
+    QTimer::singleShot(25000,&app,[&]{if(!done){done=true;runner.stop();app.exit(1);}});
+    QTimer::singleShot(0,&app,[&]{runner.start("void setup(){}\nvoid loop(){delay(1000);}\n","g++",QCoreApplication::applicationDirPath()+"/sdk",{});});
+    return app.exec();
+}

diff --git a/tests/sdk_flash_tests.cpp b/tests/sdk_flash_tests.cpp
@@ -1,0 +1,19 @@
+#include <Arduino.h>
+#include <avr/pgmspace.h>
+#include <iostream>
+int main(){
+    const uint8_t frames[][4] PROGMEM={{0x18,0xff,0x42,0x81},{0xa5,0x5a,0x00,0x7e}};
+    const uint8_t* const table[] PROGMEM={frames[0],frames[1]};
+    const auto* frame=static_cast<const uint8_t*>(pgm_read_ptr(&table[1]));
+    if(pgm_read_byte(frame)!=0xa5 || pgm_read_byte_near(frame+3)!=0x7e)return 1;
+    const uint16_t words[] PROGMEM={0x1234,0xabcd};
+    if(pgm_read_word(&words[1])!=0xabcd || pgm_read_word_near(words)!=0x1234)return 2;
+    const uint32_t dword=0x89abcdef;unsigned char unaligned[5];std::memcpy(unaligned+1,&dword,4);
+    if(pgm_read_dword(unaligned+1)!=dword || pgm_read_dword_near(unaligned+1)!=dword)return 3;
+    const float scale PROGMEM=1.25f;if(pgm_read_float(&scale)!=1.25f)return 4;
+    const char text[] ICACHE_RODATA_ATTR="Flash animation";char copy[32]{};
+    strcpy_P(copy,text);if(strlen_P(text)!=15 || memcmp_P(copy,text,16)!=0)return 5;
+    memcpy_P(copy,PSTR("Frames"),7);if(std::strcmp(copy,"Frames")!=0)return 6;
+    if(std::strcmp(F("Ready"),"Ready")!=0)return 7;
+    std::cout<<"Flash bitmap, pointer table, unaligned reads and strings passed\n";
+}
